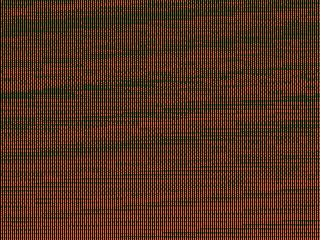
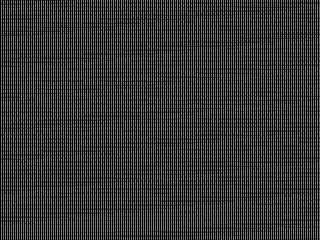
color bar

diff --git a/code/framegrabber/OV7670.h b/code/framegrabber/OV7670.h
@@ -33,6 +33,7 @@
 
 #define COM7_RGB        0x04  // Selects RGB output format
 #define COM7_QVGA       0x10  // Enables QVGA (320x240) resolution
+#define COM7_CBAR       0x02  // Enables color bar
 #define COM15_RGB565    0x10  // Selects RGB565 output format
 #define COM15_R00FF     0xC0  // Full 0-255 range for RGB
 #define COM10_PCLK_HREF 0x20  // PCLK does not toggle on HREF
@@ -46,7 +47,7 @@
 static const uint8_t ov7670_qvga_rgb565[] = {
     REG_COM7, 0x80, // reset 
     REG_COM7, 0x80, // reset 
-    REG_COM7, COM7_RGB | COM7_QVGA,          // Select RGB and QVGA mode
+    REG_COM7, COM7_RGB | COM7_QVGA | COM7_CBAR,          // Select RGB and QVGA mode
     REG_RGB444, 0x00,                         // Disable RGB444
     REG_COM1, 0x00,                           // No CCIR601
     REG_COM15, COM15_RGB565 | COM15_R00FF,    // RGB565 with full range
